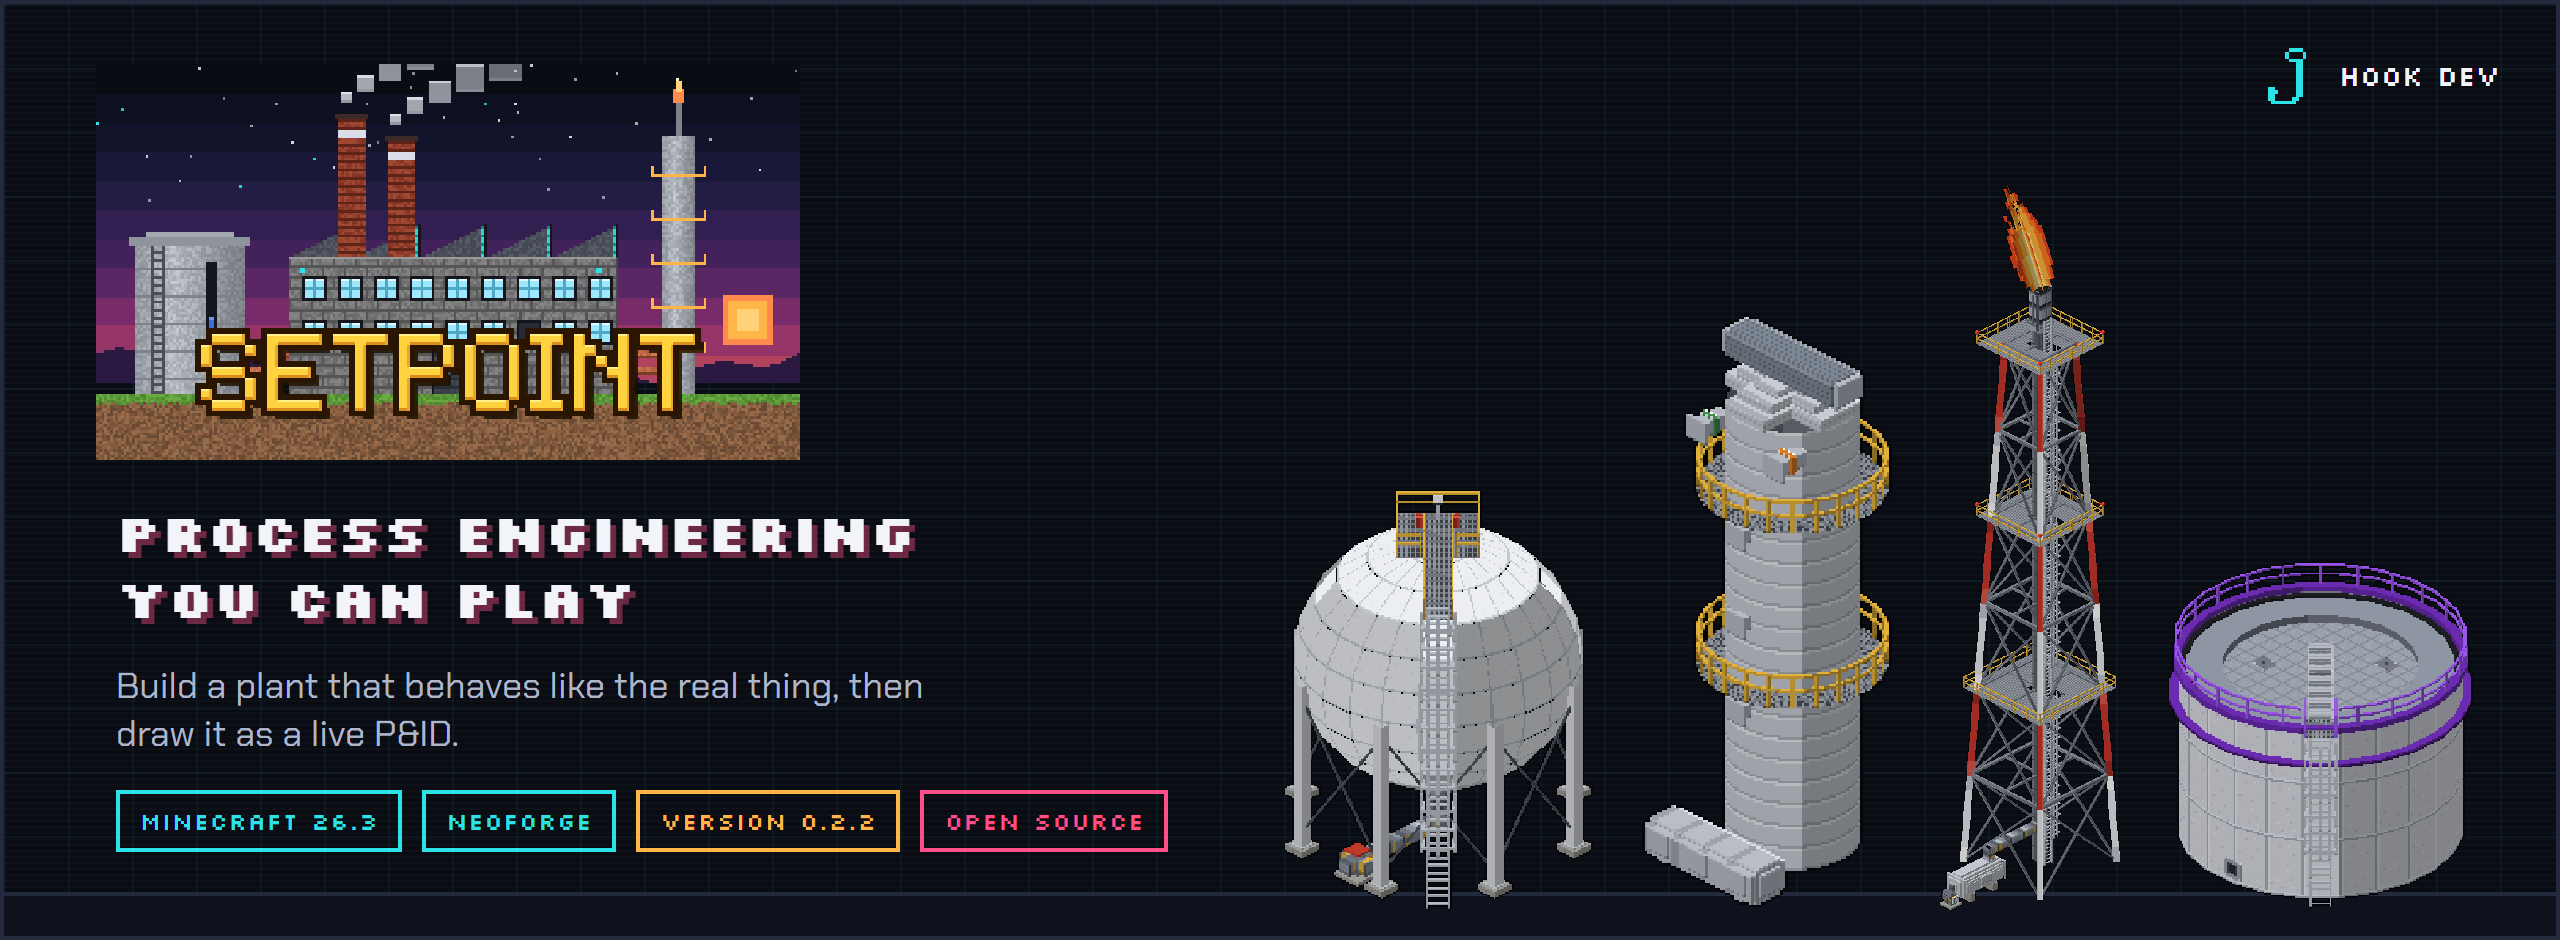
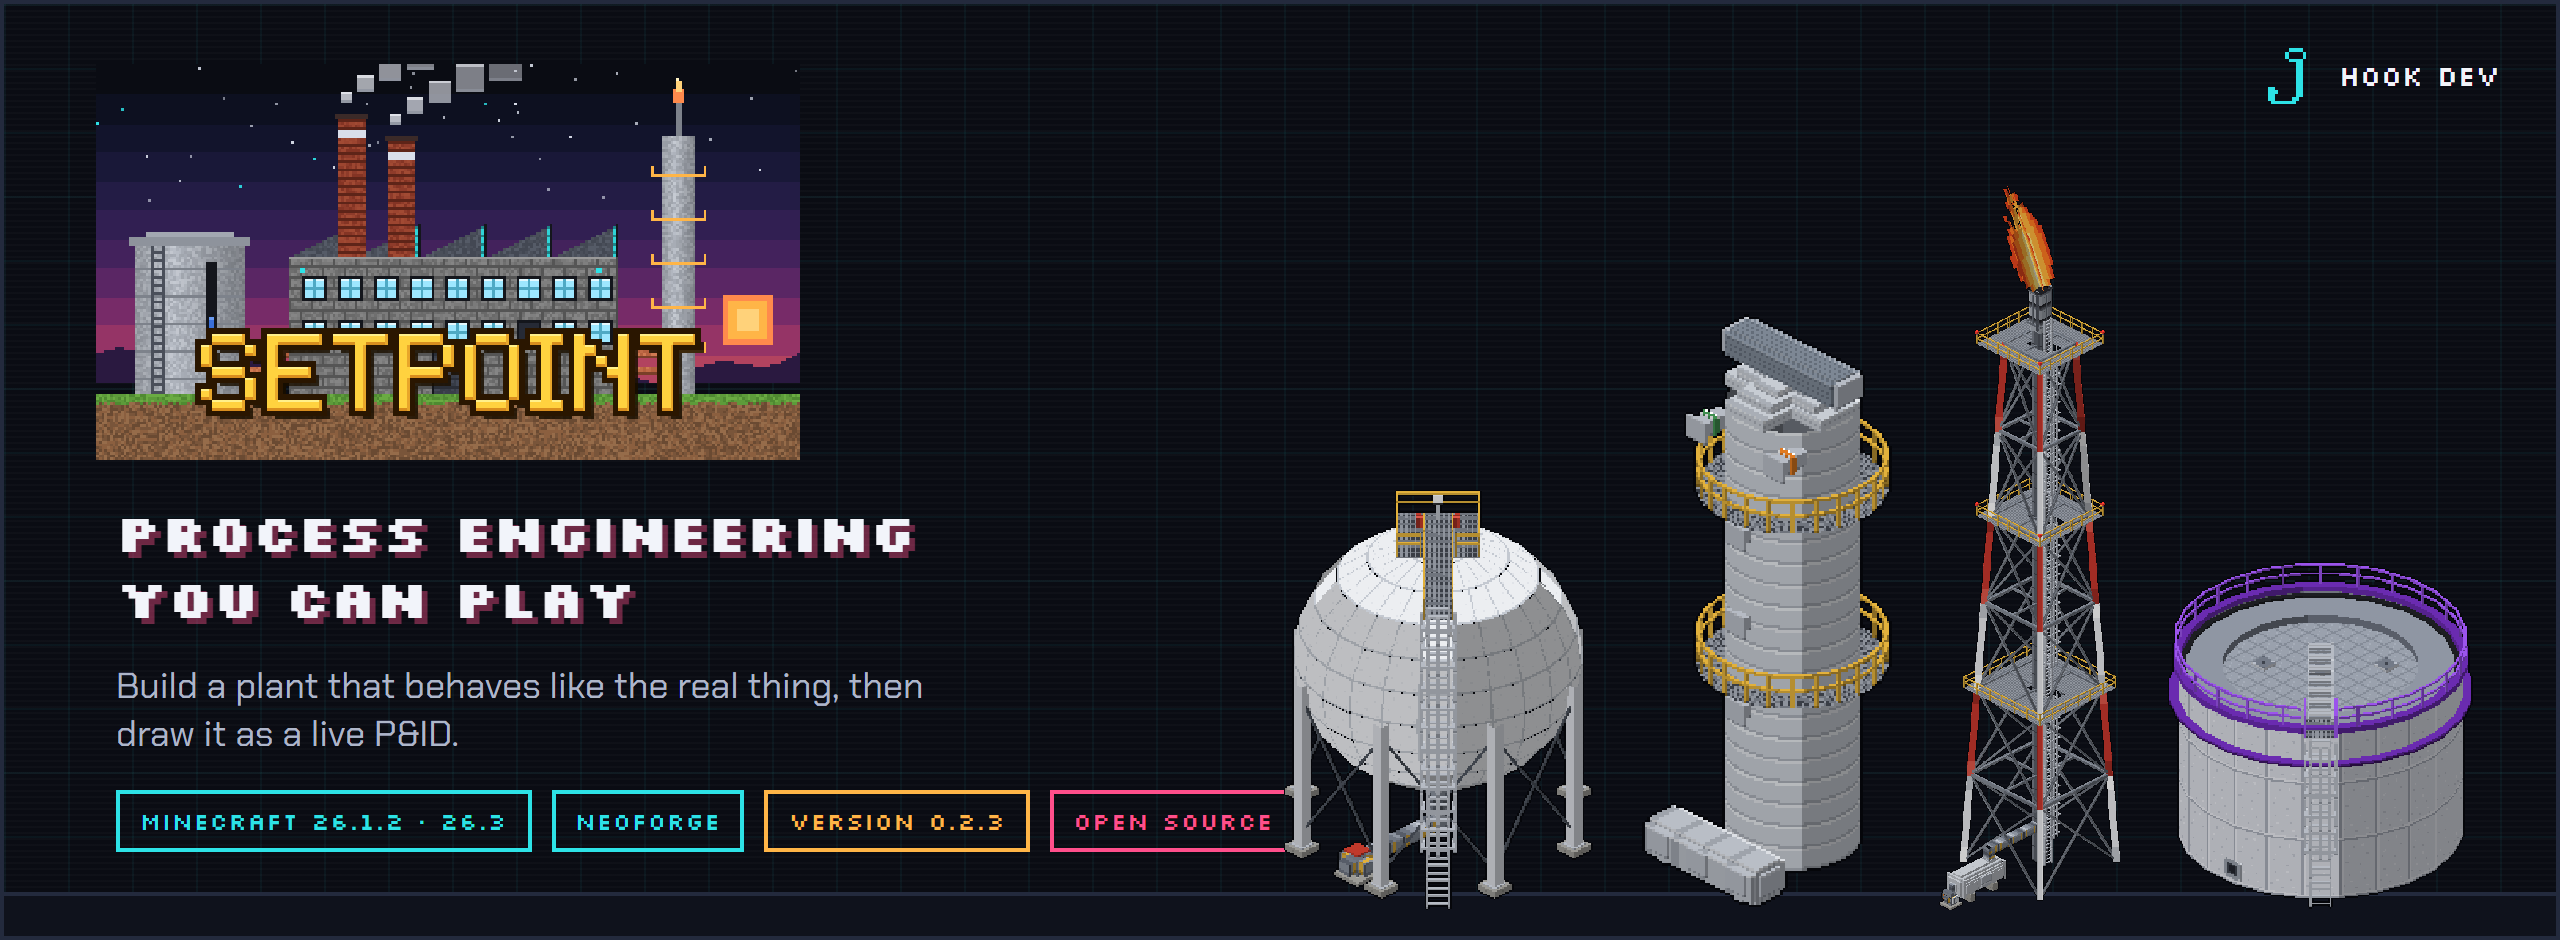
Setpoint 0.2.3: now for Minecraft 26.1.2 too, next to 26.3
Claude-Session: https://claude.ai/code/session_01KQXgr11Y44rM8FATjPeLox

Changed region(s): [[0.125, 0.833, 0.5, 0.9255]]

diff --git a/release/curseforge/description.md b/release/curseforge/description.md
@@ -1,6 +1,6 @@
 # Setpoint
 
-![Setpoint: process engineering you can play](https://raw.githubusercontent.com/ParadiseArchive/setpoint/v0.2.2/.github/readme/banner.png)
+![Setpoint: process engineering you can play](https://raw.githubusercontent.com/ParadiseArchive/setpoint/v0.2.3/.github/readme/banner.png)
 
 **Build a real process plant in Minecraft, then draw it as a P&ID.**
 
@@ -14,9 +14,9 @@ It is easy by default: machines link up and configure themselves, and plain-lang
 - **Live in the control room.** Put a P&ID in the DCS console: equipment that runs lights up, alarms flash, tanks fill to their real level. Click a symbol for its trend.
 - **On the wall.** Put P&ID boards side by side for a big mimic board that updates live, and run the plant from it: open a controller's faceplate, start and stop pumps, open and shut hand valves.
 
-![A P&ID of a small steam plant](https://raw.githubusercontent.com/ParadiseArchive/setpoint/v0.2.2/.github/readme/pid.png)
+![A P&ID of a small steam plant](https://raw.githubusercontent.com/ParadiseArchive/setpoint/v0.2.3/.github/readme/pid.png)
 
-![The same plant live on a P&ID board](https://raw.githubusercontent.com/ParadiseArchive/setpoint/v0.2.2/.github/readme/board.png)
+![The same plant live on a P&ID board](https://raw.githubusercontent.com/ParadiseArchive/setpoint/v0.2.3/.github/readme/board.png)
 
 ## Liquids
 
@@ -26,7 +26,7 @@ It is easy by default: machines link up and configure themselves, and plain-lang
 - **Drums and IBCs.** Containers you carry around, liquid and all, in any colour you dye them.
 - **Floating roof tank.** A tank of eight by eight by six blocks for 8000 buckets, placed with one block. Its roof floats on the liquid, rising and sinking with the level, and you can walk on it.
 
-![Water intake, pump, valves, tanks, drum, IBC and floating roof tank](https://raw.githubusercontent.com/ParadiseArchive/setpoint/v0.2.2/.github/readme/shelf-liquids.png)
+![Water intake, pump, valves, tanks, drum, IBC and floating roof tank](https://raw.githubusercontent.com/ParadiseArchive/setpoint/v0.2.3/.github/readme/shelf-liquids.png)
 
 ## Control
 
@@ -34,7 +34,7 @@ It is easy by default: machines link up and configure themselves, and plain-lang
 - **DCS controllers.** Place one against a tank and it finds its own valve and holds the level at 50 %. Open its faceplate to change the setpoint, tune the PID, or switch between AUTO, MAN and CAS.
 - **DCS console.** Overview, five-minute trends and an ISA-style alarm list for everything within 32 blocks.
 
-![Transmitters, controller, field communicator, DCS console, P&ID board, alarm beacon, emergency stop and a control room](https://raw.githubusercontent.com/ParadiseArchive/setpoint/v0.2.2/.github/readme/shelf-control.png)
+![Transmitters, controller, field communicator, DCS console, P&ID board, alarm beacon, emergency stop and a control room](https://raw.githubusercontent.com/ParadiseArchive/setpoint/v0.2.3/.github/readme/shelf-control.png)
 
 ## The control room
 
@@ -46,9 +46,9 @@ It is easy by default: machines link up and configure themselves, and plain-lang
 - **Printer.** Feed it paper and it prints the alarm log of the nearest console as a book, for the shift handover.
 - **Furniture.** Control desks, operator screens, a 24-hour chair you can sit in, a raised floor, ceiling lights, a wall clock with the time of day, filing cabinets, a coffee machine that pours you a mug of coffee, an exit sign, a blast door and wired glass.
 
-![The DCS console overview](https://raw.githubusercontent.com/ParadiseArchive/setpoint/v0.2.2/.github/readme/console.png)
+![The DCS console overview](https://raw.githubusercontent.com/ParadiseArchive/setpoint/v0.2.3/.github/readme/console.png)
 
-![A controller faceplate](https://raw.githubusercontent.com/ParadiseArchive/setpoint/v0.2.2/.github/readme/faceplate.png)
+![A controller faceplate](https://raw.githubusercontent.com/ParadiseArchive/setpoint/v0.2.3/.github/readme/faceplate.png)
 
 ## Power
 
@@ -61,7 +61,7 @@ It is easy by default: machines link up and configure themselves, and plain-lang
 - **Power cables** carry FE from any generator to the machines along them, shared out evenly. They work with other mods' generators and machines too, and pull from generators that wait to be drained. Cable trays and transformers carry power the same way.
 - **Battery bank.** A million FE: it keeps what the machines leave over and gives it back when the wind drops. A **power meter** in the cable shows what flows.
 
-![Stirling engine, biogas generator, boiler, safety valve, steam turbine, diesel generator, fuel cell, power cable and wind turbine](https://raw.githubusercontent.com/ParadiseArchive/setpoint/v0.2.2/.github/readme/shelf-power.png)
+![Stirling engine, biogas generator, boiler, safety valve, steam turbine, diesel generator, fuel cell, power cable and wind turbine](https://raw.githubusercontent.com/ParadiseArchive/setpoint/v0.2.3/.github/readme/shelf-power.png)
 
 ## Gases
 
@@ -78,7 +78,7 @@ It is easy by default: machines link up and configure themselves, and plain-lang
 - A **distillation column**, eleven blocks high, splits crude oil like a real crude unit, with steam in its reboiler and cooling water in its condenser: LPG at the top, then naphtha, kerosene and diesel, and residue at the bottom.
 - Crude oil and naphtha give off vapour in an ordinary tank: blanket them with nitrogen, or keep them in a floating roof tank.
 
-![Electrolyser, nitrogen generator, compressor, gas cylinders, ammonia reactor, fertilizer mixer, gas sphere, pumpjack, distillation column and flare stack](https://raw.githubusercontent.com/ParadiseArchive/setpoint/v0.2.2/.github/readme/shelf-gases.png)
+![Electrolyser, nitrogen generator, compressor, gas cylinders, ammonia reactor, fertilizer mixer, gas sphere, pumpjack, distillation column and flare stack](https://raw.githubusercontent.com/ParadiseArchive/setpoint/v0.2.3/.github/readme/shelf-gases.png)
 
 ## The flare stack
 
@@ -91,7 +91,7 @@ The tallest thing in the mod: a flare forty blocks high in a red and white derri
 - A **forklift** you drive, with rear-wheel steering and forks up to six blocks high.
 - **Pallet racking** to store loaded pallets up high.
 
-![Pallet, pallet truck, forklift and pallet racking](https://raw.githubusercontent.com/ParadiseArchive/setpoint/v0.2.2/.github/readme/shelf-logistics.png)
+![Pallet, pallet truck, forklift and pallet racking](https://raw.githubusercontent.com/ParadiseArchive/setpoint/v0.2.3/.github/readme/shelf-logistics.png)
 
 ## Factory blocks
 

diff --git a/CLAUDE.md b/CLAUDE.md
@@ -103,7 +103,7 @@ Early Stirling engine / biogas, mid steam, late diesel from your own distillatio
 - Handbook: when a block, item or recipe changes, update tools/handbook-content.mjs too (recipes fill in by themselves), then run gen-assets.
 
 ## Backlog
-- [ ] **Priority 1 (owner, 28 Oct 2026): working with other mods and in modpacks**, before the rest of the 0.2.3 plan. Found that day: Sodium 0.9.2 crashes on NeoForge 26.3.0.99 by itself (its own mixin into LevelExtractor; Setpoint is not in the trace), 0.9.3 beta works; the dev setup moved to NeoForge 26.3.0.99 (all tests pass). All the Mods 11 runs on Minecraft 26.1.2 (NeoForge 26.1.2.109); the owner chose to support 26.1.2 and 26.3. Done 28 Oct 2026 on branch multiversion: both build and pass all 99 GameTests (see versions/README.md); still to do: the owner tests the 26.1.2 jar in All the Mods 11, then merge and release both. To do after that: a server config for pack makers (generator outputs, wind, Hookonium ore, the showcase command), c: tags for Hookonium and the oils, the same oil as other mods, a dedicated server test with big mods, key clashes.
+- [ ] **Priority 1 (owner, 28 Oct 2026): working with other mods and in modpacks**, before the rest of the 0.2.3 plan. Found that day: Sodium 0.9.2 crashes on NeoForge 26.3.0.99 by itself (its own mixin into LevelExtractor; Setpoint is not in the trace), 0.9.3 beta works; the dev setup moved to NeoForge 26.3.0.99 (all tests pass). All the Mods 11 runs on Minecraft 26.1.2 (NeoForge 26.1.2.109); the owner chose to support 26.1.2 and 26.3. Done 28 Oct 2026: both build and pass all 99 GameTests (see versions/README.md), the owner played the 26.1.2 jar in All the Mods 11 without problems, released as 0.2.3 (tag v0.2.3, one CurseForge file per Minecraft version). Still to do: a server config for pack makers (generator outputs, wind, Hookonium ore, the showcase command), c: tags for Hookonium and the oils, the same oil as other mods, a dedicated server test with big mods, key clashes.
 - [ ] **0.2.3 plan** (left over from 0.2.2, owner 28 Oct 2026): building blocks round 3 (roller door, safety shower with eyewash, windsock); control room 3 (a horn you can set quieter, a shift log from the printer); P&ID tasks (get a drawing, build the plant, check it matches); modpack compatibility (step 7 of the 0.2.2 plan below). Open question to the owner: the blast door "is not blastproof" (a test shows TNT right in front of it leaves it standing; ask what broke: the door, the wired glass, or damage behind it).
 - [x] **0.2.2 released** (owner said push on 28 Oct 2026, tagged v0.2.2; what was not done moved to the 0.2.3 plan below; bug fixes for the flare ladder, pallet truck, wall clock and pipe wrench are done and in release/changelog/0.2.2.md). In this order:
   1. [x] Operator gear (built 28 Oct 2026: item/OperatorGear, one ArmorMaterial per look; client/OperatorGearModels gives the hard hat and bump cap their own HumanoidModel with a brim/peak, 64x64 textures; the coverall is dyeable through per-item crafting_dye recipes, 26.3 has no general armour dye recipe) (owner's words: diamond-level armor, harder to make, e.g. with Hookonium): a white operator helmet (hard hat), a yellow bump cap, an overall as chestplate + leggings (dyeable, blue by default) and work boots.

diff --git a/README.md b/README.md
@@ -6,7 +6,7 @@
   <a href="https://github.com/ParadiseArchive/setpoint/actions/workflows/build.yml"><img src="https://img.shields.io/github/actions/workflow/status/ParadiseArchive/setpoint/build.yml?branch=main&style=flat-square&label=build&labelColor=0a0c13&color=2de2e6" alt="Build"></a>
   <img src="https://img.shields.io/badge/minecraft-26.1.2%20%7C%2026.3-2de2e6?style=flat-square&labelColor=0a0c13" alt="Minecraft 26.1.2 and 26.3">
   <img src="https://img.shields.io/badge/neoforge-26.1.2%20%7C%2026.3-2de2e6?style=flat-square&labelColor=0a0c13" alt="NeoForge 26.1.2 and 26.3">
-  <img src="https://img.shields.io/badge/version-0.2.2-ffb547?style=flat-square&labelColor=0a0c13" alt="Version 0.2.2">
+  <img src="https://img.shields.io/badge/version-0.2.3-ffb547?style=flat-square&labelColor=0a0c13" alt="Version 0.2.3">
   <a href="LICENSE"><img src="https://img.shields.io/badge/license-MIT-ff4f8b?style=flat-square&labelColor=0a0c13" alt="License: MIT"></a>
 </p>
 
@@ -97,7 +97,7 @@ dye and safety boots.
 
 ## Get it
 
-Setpoint **0.2.2** is the latest release. Back up your world before you update to a new version.
+Setpoint **0.2.3** is the latest release. Back up your world before you update to a new version.
 Download it on **[CurseForge](https://www.curseforge.com/minecraft/mc-mods/setpoint)**, or build it yourself (see below).
 
 - Minecraft 26.3 or 26.1.2 (the version of All the Mods 11) with NeoForge, Java 25: pick the file for your Minecraft version

diff --git a/release/changelog/0.2.3.md b/release/changelog/0.2.3.md
@@ -1,0 +1,12 @@
+# Setpoint 0.2.3
+
+Setpoint now runs on **Minecraft 26.1.2** too, the version of All the Mods 11, next to 26.3. Back up your world before you update.
+
+## New
+
+- **Minecraft 26.1.2:** a file of its own for 26.1.2 with NeoForge 26.1.2.109 or newer, with everything that is in the 26.3 one: every machine, the console, the P&IDs, the power grid, the operator gear and the showcase plant. Pick the file for your Minecraft version.
+- On 26.1.2, water and lava flow round Setpoint's pipes, cables, valves and instruments instead of washing them away, as they do on 26.3.
+
+## Changed
+
+- Nothing changes for 26.3: the same mod, the same worlds.
